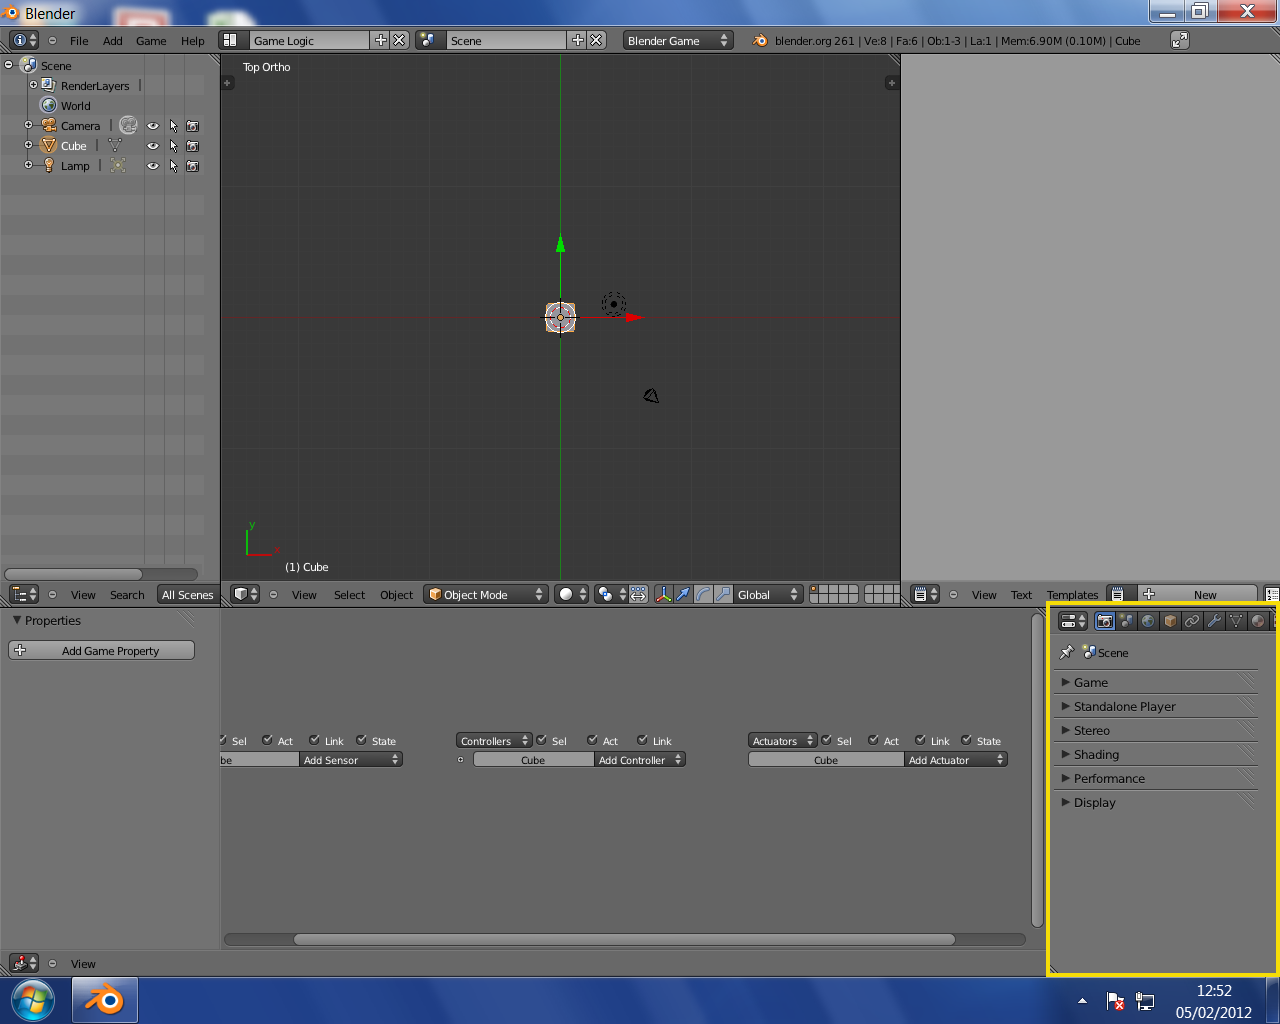
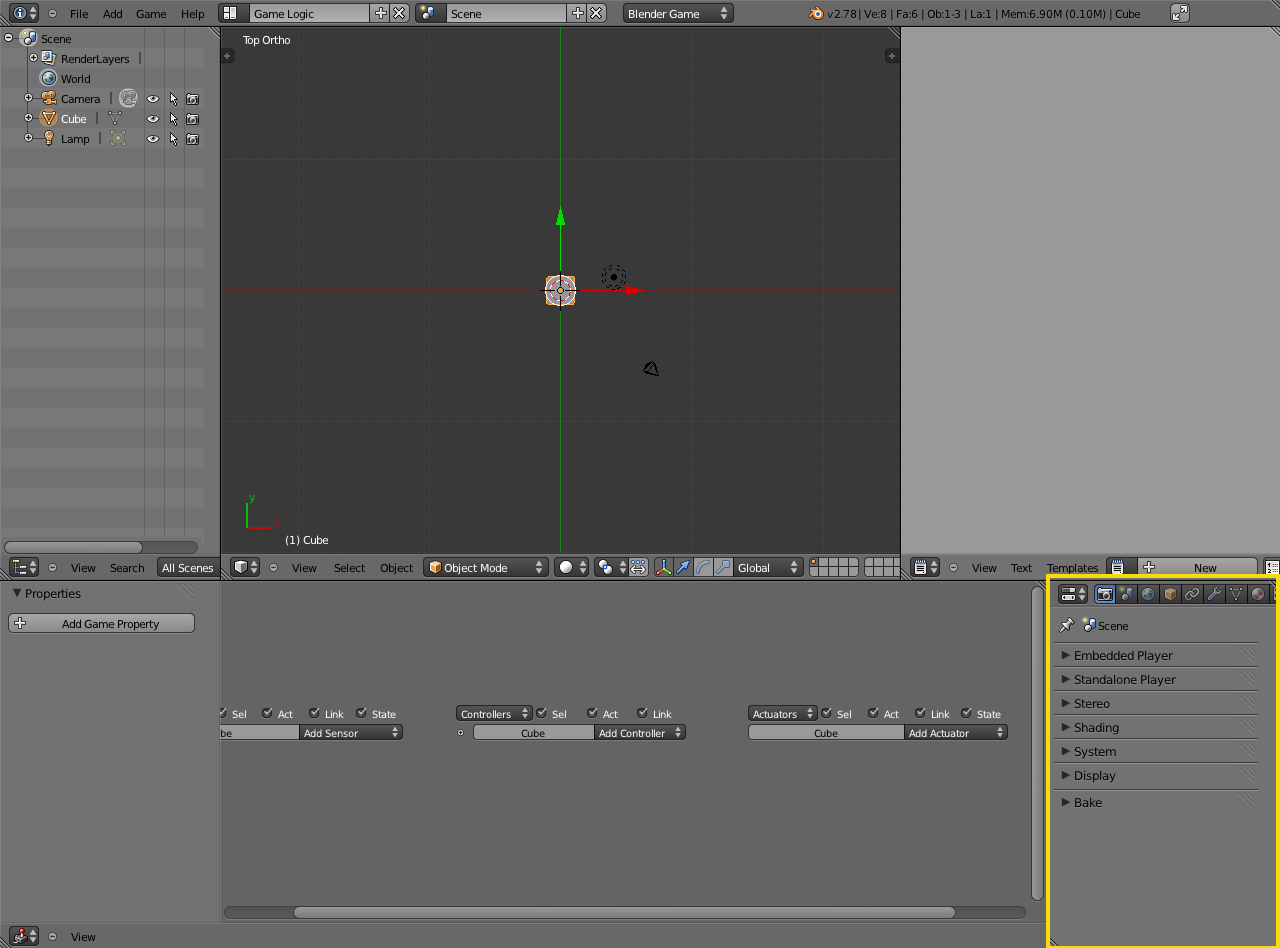
Update BGE settings
Patch by @bill-auger

diff --git a/manual/game_engine/settings/render.rst b/manual/game_engine/settings/render.rst
@@ -13,6 +13,15 @@ The camera (or cameras) used in a Blender game have a wide-ranging effect on the
 the game is rendered and displayed.
 Mostly this is controlled using the Properties panel of the camera(s) used in the game.
 
+There are two separate game "players" for previewing the game during development.
+The Embedded Player renders onto the 3D scene pane in the Blender GUI using the current perspective
+and zoom level of the 3D preview.
+The Standalone Player renders the scene from the perspective of the active scene camera
+and either creates a new desktop window or switches into fullscreen rendering mode.
+Note that while the Game Engine is running in either player,
+the computer's mouse and keyboard are captured by the game and by default,
+the mouse cursor is not visible. To exit the game, press the <ESC> key.
+
 
 .. tip:: Render Engine
 
@@ -20,7 +29,7 @@ Mostly this is controlled using the Properties panel of the camera(s) used in th
    otherwise this description will not tally with what you see!
 
 
-In the Camera Properties area, there are six panels available, as shown.
+In the Camera Properties area, there are seven panels available, as shown.
 Each can be expanded or contracted using the usual triangle button.
 The features in each panel will be described in detail below.
 
@@ -28,19 +37,35 @@ The features in each panel will be described in detail below.
 Embedded Player
 ===============
 
-.. figure:: /images/bge_camera_properties_game.jpg
+.. figure:: /images/bge_camera_properties_embedded.png
    :width: 300px
 
    Game Panel.
 
 
-The *Start* button starts the Game Engine. Shortcut :kbd:`P`.
+This panel provides information for the Embedded Game Player which allows games to be run
+inside a Blender render pane.
+
+Note that the *Resolution* settings are independent of the size of the viewport preview pane.
+In fact, the *Resolution* controls seem to have no effect at all.
+The resolution and aspect ratio of the embedded preview are always fixed to the 3D preview pane,
+which behaves much like the *Extend* framing mode for the standalone player as described below.
+The *Framing* selection under the *Display* heading has no effect on the embedded preview.
+
+
+Start
+   Starts the Game Engine inside the blender viewport preview pane. Shortcut :kbd:`P`.
+Resolution
+   X
+      Sets the internal X rendering resolution.
+   Y
+      Sets the internal Y rendering resolution.
 
 
 Standalone Player
 =================
 
-.. figure:: /images/bge_camera_properties_standalone.jpg
+.. figure:: /images/bge_camera_properties_standalone.png
    :width: 300px
 
    Standalone Panel.
@@ -49,33 +74,48 @@ Standalone Player
 This panel provides information for the Standalone Game Player which allows games to be run without Blender.
 See :doc:`Standalone Player </game_engine/blender_player>` for further details.
 
-Fullscreen
-   Off -- opens standalone game as a new window.
-   On -- opens standalone game in full screen.
+The semantics of the Standalone Player *Resolution* controls differ for Windowed and Fullscreen modes.
+In Windowed mode (*Fullscreen* checkbox unchecked), the *Resolution* controls set the initial dimensions of the desktop window.
+The user may resize the window at any time, causing the rendering resolution to change accordingly.
+In Fullscreen mode (*Fullscreen* checkbox checked), the *Resolution* controls set the internal rendering resolution.
+The actual display resolution will be a best fit depending on the user's hardware.
+In either mode, the aspect ratio/cropping/scaling are determined by the *Framing* selection under the *Display* heading.
 
+Regarding *Fullscreen* mode, it is important to remember that the *Resolution* settings in *Fullscreen* mode
+are only hints to the operating system. Each display and monitor combination will have a different set of
+resolutions that they are capable of displaying; so there can be little confidence that all end-users will actually
+get the resolution you suggest; unless you choose one of the most standard resolutions (e.g. 800x600 or 1024x768).
+If you insist on using higher resolutions, then you may want to state clearly in your documentation that
+only certain resolutions are supported. In most other cases, the user's machine may select a resolution that is
+close to the one suggested; but the results can be unpredictable, especially in *Letterbox* mode.
+
+Note that the *Desktop* checkbox has no effect in Windowed mode.
+
+
+Start
+   Lanuches the current .blend file with the Standalone Player.
 Resolution
    X
-      Sets the X size of the viewport for full-screen display.
+      Sets the X window size or full-screen display resolution.
    Y
-      Sets the Y size of the viewport for full-screen display.
+      Sets the Y window size or full-screen display resolution.
+Fullscreen
+   Off
+      Opens standalone game as a new window.
+   On
+      Opens standalone game in full-screen.
+Desktop
+   Off
+      Attempts to obey the *Resolution* specified above when in *Fullscreen* mode.
+   On
+      Keeps the current desktop resolution when in *Fullscreen* mode.
 Quality
+   AA Samples
+      The number of AA samples to use for MSAA.
    Bit Depth
       Number of bits used to represent color of each pixel in full-screen display.
-   FPS
+   Refresh Rate
       Number of frames per second of full-screen display.
-
-Framing
-   Shows how the display is to be fitted in to the viewport.
-
-   Letterbox
-      Show the entire viewport in the display window, and fill the remainder with the "bar" color.
-   Extend
-      Show the whole display in the viewport, and fill the remainder with bars.
-   Scale
-      Scale the display in X and Y to exactly fill the entire viewport.
-
-Bar Color
-   Select a color to use as the color of bars around the viewport.
 
 
 Stereo
@@ -115,12 +155,10 @@ The shading facilities available in Blender for use in
 are essentially the same in the Blender Game Engine.
 However, the constraints of real-time display mean that only some of the facilities are available.
 
-Single Texture
-   Use single texture facilities.
 Multitexture
    Use Multitexture shading.
 GLSL
-   Use GLSL shading. GLSL should be used whenever possible for real-time image rendering.
+   Use GLSL shading whenever possible for real-time image rendering.
 
 
 .. _game-engine-settings-render-system:
@@ -128,50 +166,43 @@ GLSL
 System
 ======
 
-The *System* panel at the Render tab of the Properties editor, lets the game
+The *System* panel at the Render tab of the Properties editor lets the game
 developer specify options about the system performance regarding to frame discards and
 restrictions about frame renderings, the key to stop the Blender Game Engine,
 and whether to maintain geometry in the internal memory of the Graphic card.
 
-.. figure:: /images/gameengine_performance_render_system.jpg
+.. figure:: /images/gameengine_performance_render_system.png
    :width: 300px
 
    System panel in the Render tab.
 
 
 Use Frame Rate
-   When checked, this will inform Blender whether to run freely without frame rate restrictions or not.
+   Respect the frame rate rather than rendering as many frames as possible.
+   When unchecked, this will inform Blender to run freely without frame rate restrictions.
    The frame rate is specified at the *Display* panel in the *Render* tab of the Properties editor.
    For more information about frame rates,
    see the :ref:`Display panel <game-engine-settings-render-display>` page.
 Display Lists
+   Use display lists to speed up rendering by keeping geometry on the GPU.
    When checked, this will tell Blender to maintain the lists of the meshes geometry allocated at the GPU memory.
    This can help to speed up viewport rendering during the game if
    you have enough GPU memory to allocate geometry and textures.
 Restrict Animation Updates
-   When checked, this will force the Game Engine to discard frames (even at the middle of redrawing,
-   sometimes causing *tearing* artifacts) if the rate of frame rendered by the GPU is greater than
-   the specified in the :ref:`Display panel <game-engine-settings-render-display>`.
-Exit Key
-   Clicking at this button will ask the user to type a key to specify a key to stop the Game Engine from running.
-
-
-Performance
-===========
-
-.. figure:: /images/bge_camera_properties_performance.jpg
-   :width: 300px
-
-   Performance Panel.
-
-
-Use Frame Rate
-   Respect the frame rate rather than rendering as many frames as possible.
-Display Lists
-   Use display lists to speed up rendering by keeping geometry on the GPU.
-Restrict Animation Updates
    Restrict number of animation updates to the animation FPS
    (this is better for performance but can cause issues with smooth playback).
+   When checked, this will force the Game Engine to discard frames (even at the middle of redrawing,
+   sometimes causing *tearing* artifacts) if the rate of frames rendered by the GPU is greater than
+   the specified in the :ref:`Display panel <game-engine-settings-render-display>`.
+Use Material Caching
+   Cache materials in the converter.
+   This is faster but can cause problems with older single-texture and multi-texture games.
+Vsync
+   Change Vsync settings.
+Storage
+   Set the storage node used by the rasterizer.
+Exit Key
+   This button specifies which keypress will exit the game.
 
 
 .. _game-engine-settings-render-display:
@@ -179,11 +210,11 @@ Restrict Animation Updates
 Display
 =======
 
-The *Display* panel in the *Render* tab of the *Properties* editor,
+The *Display* panel in the *Render* tab of the *Properties* editor
 lets the game developer specify the maximum frame rate of the animations shown during
 the game execution, whether to see informations like framerate and profile, debug properties,
 physics geometry visualization, warnings,
-if the mouse cursor is shown during the game execution, and options to specify the framing
+whether the mouse cursor is shown during the game execution, and options to specify the framing
 style of the game to fit the window with the specified resolution.
 
 
@@ -196,11 +227,11 @@ Animation Frame Rate
    This number button/slider specify the maximum frame rate at which the game will run.
    Minimum is 1, maximum is 120.
 Debug Properties
-   When checked, if a property was previously checked to be debugged during the game,
-   the values of this property will be shown with the ``Framerate and Profile`` contents.
+   When checked, the values of any properties which are selected to be debugged in the *Game Properties* panel
+   will be shown with the *Framerate and Profile* contents.
 Framerate and Profile
    When checked, this will show values for each of the calculations Blender is doing while the game is running,
-   plus the properties marked to be debugged.
+   plus the properties marked to be debugged if *Debug Properties* above is also checked.
 Physics visualization
    Shows a visualization of physics bounds and interactions (like hulls and collision shapes), and their interaction.
 Deprecation Warnings
@@ -210,13 +241,120 @@ Deprecation Warnings
 Mouse Cursor
    Whether to show or not the mouse cursor when the game is running.
 Framing
-   There are three types of framing available:
+   Selects how the scene is to be fitted onto the display window or screen. There are three types of framing available:
 
    Letterbox
-      Show the entire viewport of the game in display window, using horizontal and/or vertical bars when needed.
+      In Windowed mode:
+         Maintains a 4:3 aspect ratio by scaling to fit the current window dimensions without cropping,
+         covering any portions of the display that lie outside of the aspect ratio with color bars.
+      In Fullscreen mode:
+         The behavior of this combination seems to be heavily dependent on the user's hardware.
+         The result can be quite unpredictable, especially with resolutions and aspect ratios that
+         differ too much from the machine's capabilities. For this reason, *Extend* mode
+         should be preferred for *Fullscreen* applications.
    Extend
-      Show the entire viewport of the game in display window, viewing more horizontally or vertically.
+      This mode behaves much like *Letterbox* mode, maintaining a 4:3 aspect ratio by scaling whenever possible;
+      except that the camera frustrum is expanded or contracted wherever necessary to fill
+      any portions of the display that lie outside of the aspect ratio, instead of covering those portions
+      of the scene with color bars, as with *Letterbox* mode, or distorting then scene, as with *Scale* mode.
    Scale
-      Stretch or Squeeze the viewport to fill the display window.
+      In this mode, no attempt is made to maintain a particular aspect ratio.
+      The scene and objects within will be stretched or squashed to fit the display exactly.
 Color Bar
    This will let the game developer choose the bar colors when using the *Letterbox* Framing mode.
+
+
+.. _game-engine-settings-render-bake:
+
+Bake
+=======
+
+The *Bake* panel in the *Render* tab of the *Properties* editor is very similar to it's
+Blender Render couterpart and serves much the same purpose.
+See :doc:`Render Baking </render/blender_render/bake>` for further details.
+
+
+.. figure:: /images/gameengine_performance_render_bake.png
+
+   Bake panel at the Render tab (showing different bake modes).
+
+
+Bake
+   Bake image textures of selected objects.
+Bake Mode
+   Shading information to bake into the image.
+
+   Full Render
+      Bakes all materials, textures, and lighting except specularity and SSS.
+   Ambient Occlusion
+      Bakes ambient occlusion as specified in the World panels. Ignores all lights in the scene.
+   Shadows
+      Bakes shadows and lighting.
+   Normals
+      Bakes tangent and camera-space normals (amongst many others) to an RGB image.
+   Textures
+      Bakes colors of materials and textures only, without shading.
+   Displacement
+      Similar to baking normal maps, displacement maps can also be baked from a high-res object
+      to an unwrapped low-res object, using the Selected to Active option.
+   Derivative
+      Bake derivative map.
+   Vertex Colors
+      Bake vertex colors.
+   Emissions
+      Bakes Emit, or the Glow color of a material.
+   Alpha
+      Bakes Alpha values, or transparency of a material.
+   Mirror Intensity
+      Bake mirror intensity values.
+   Mirror Colors
+      Bake mirror colors.
+   Specular Intensity
+      Bake specular intensity values.
+   Specular Colors
+      Bake specular colors.
+Bake from Multires
+   Bake directly from Multires object.
+Normalized
+   In Displacement Mode:
+      Normalize to the distance.
+   In Ambient Occlusion Mode:
+      Normalize without using material’s settings.
+Normal Space
+   Normals can be baked in different spaces:
+
+   Camera space
+      Default method.
+   World space
+      Normals in world coordinates, dependent on object transformation and deformation.
+   Object space
+      Normals in object coordinates, independent of object transformation,
+      but dependent on deformation.
+   Tangent space
+      Normals in tangent space coordinates, independent of object transformation and deformation.
+      This is the new default, and the right choice in most cases, since then the normal map
+      can be used for animated objects too.
+Bake to Vertex Color
+   Bake to vertex colors instead of to a UV-mapped image.
+Clear
+   If selected, clears the image to selected background color (default is black) before baking render.
+Margin
+   Baked result is extended this many pixels beyond the border of each UV “island,” to soften seams in the texture.
+Selected to Active
+   Bake shading on the surface of selected objects to the active object.
+
+   Distance
+      Maximum distance in blender units from active object to other object.
+   Bias
+      Bias in blender units toward faces further away from the object.
+Split
+   The method used to split a quad into two triangles for baking.
+
+   Fixed
+      Split quads predictably (0,1,2)(0,2,3).
+   Fixed Alternate
+      Split quads predictably (1,2,3)(1,3,0).
+   Automatic
+      Split quads to give the least distortion while baking.
+User Scale
+   Apply a custom scale to the derivative map instead of normalizing to the default (0.1).
